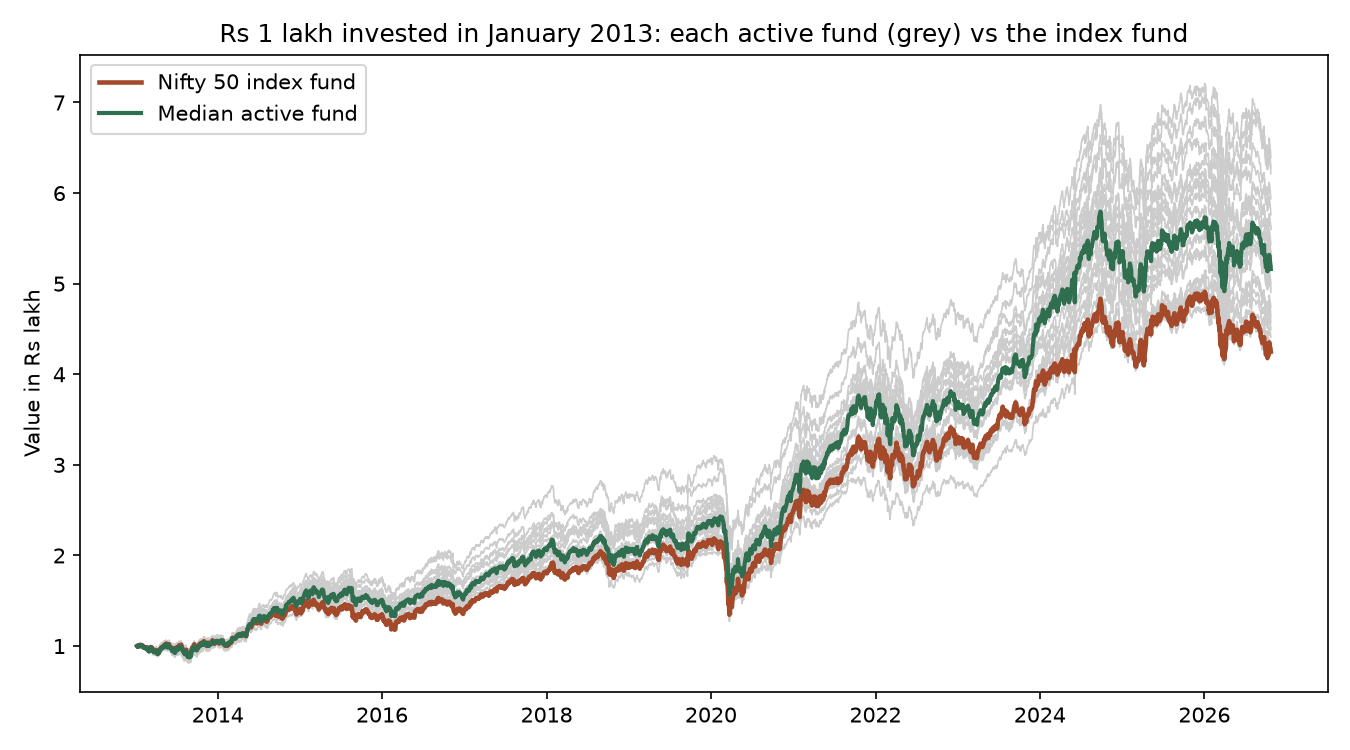
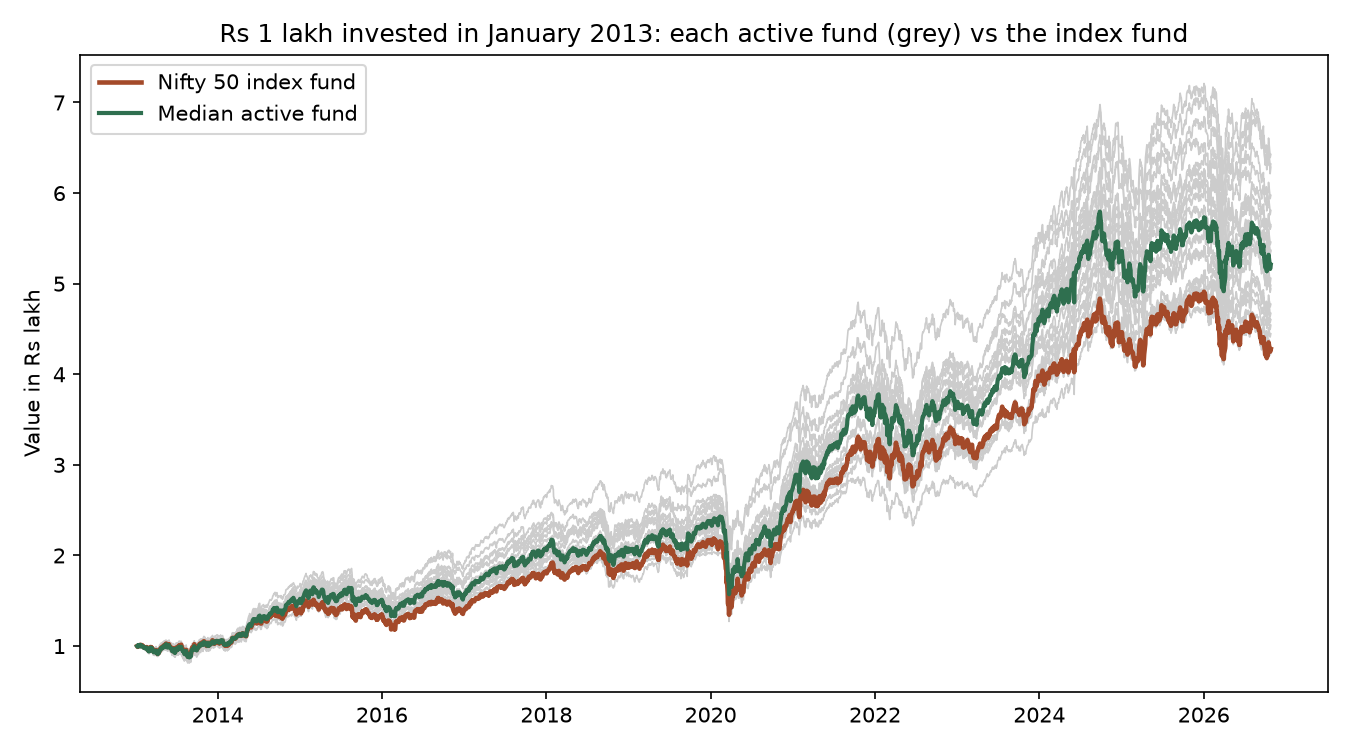
Data refresh: NAVs to 2026-10-27

diff --git a/README.md b/README.md
@@ -5,7 +5,7 @@
 **Short answer:** Over 2013–2026, yes: 19 of 20 surviving active large-cap funds beat the UTI Nifty 50 Index Fund. But it is **streaky**, and the full-period number flatters active funds because of **survivorship bias**. Active funds won almost every 3-year window up to 2018, then most of them *lost* to the index from 2019 to 2021, and they have been winning again since 2024.
 
 <!-- latest -->
-**Latest data: 23 Oct 2026.** Over 13.8 years, the Nifty 50 index fund returned 11.06% a year; 18 of 20 surviving active funds beat it. Right now, 100% of active funds are ahead of the index over the past 3 years.
+**Latest data: 26 Oct 2026.** Over 13.8 years, the Nifty 50 index fund returned 11.11% a year; 18 of 20 surviving active funds beat it. Right now, 100% of active funds are ahead of the index over the past 3 years.
 <!-- /latest -->
 
 ## Data
